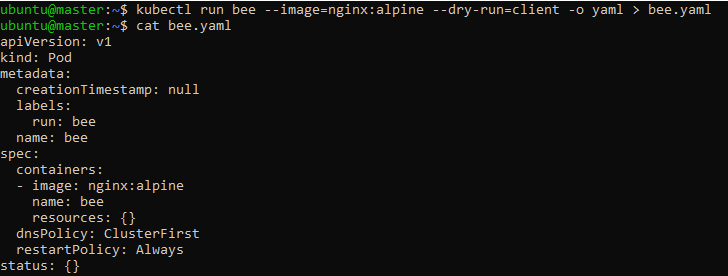
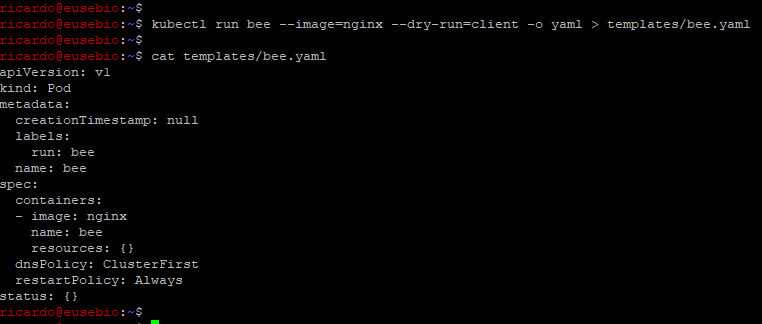
update taint

Changed region(s): [[0.0, 0.0, 1.0, 0.9855], [0.1813, 0.9855, 0.2115, 1.0]]

diff --git a/02-Scheduling/Taints and Tolerations/demo.md b/02-Scheduling/Taints and Tolerations/demo.md
@@ -23,7 +23,7 @@ kubectl describe node sheu
 ```
 ![Alt Text](/00-images/Scheduling/taint3.PNG)
 
-### 4. Create a new pod with pod name mosquito and check what is the state of the pod?
+### 4. Create a new POD with pod name mosquito and check what is the state of the POD?
 ```
 kubectl run mosquito --image=nginx
 ```
@@ -42,18 +42,32 @@ kubectl describe pod mosquito
 ![Alt Text](/00-images/Scheduling/taint5.PNG)
 - Pod mosquito cannot toletare taint COLOR
 
-6º Create a new pod named bee which has a toleration set to the tain COLOR
+### 6. Create a new POD named bee which has a toleration set to the taint COLOR
+```
+kubectl run bee --image=nginx --dry-run=client -o yaml > templates/bee.yaml
 
+cat templates/bee.yaml
+```
 ![Alt Text](/00-images/Scheduling/taint6.PNG)
-- we cannot specify toleration in the command line.
+- NOTE: we cannot specify toleration in the command line. So let's open our yaml file and add more configurations
 
+```
+nano templates/bee.yaml
+
+cat templates/bee.yaml
+```
 ![Alt Text](/00-images/Scheduling/taint7.PNG)
 
 ![Alt Text](/00-images/Scheduling/taint8.PNG)
-- I edited the pod file and now we can see the pod has a toleration
+- NOTE: I edited the POD file (bee.yaml) and now we can see the POD has a toleration
 
+```
+kubectl apply -f templates/bee.yaml
+
+kubectl get pods
+```
 ![Alt Text](/00-images/Scheduling/taint9.PNG)
-- As the pod bee has the toleration, We can see the pod bee is running while pod mosquito still pending
+- As the POD bee has the toleration, We can see the POD bee is running while pod mosquito still pending
 
 7º Remove the taint on node worker1
 
